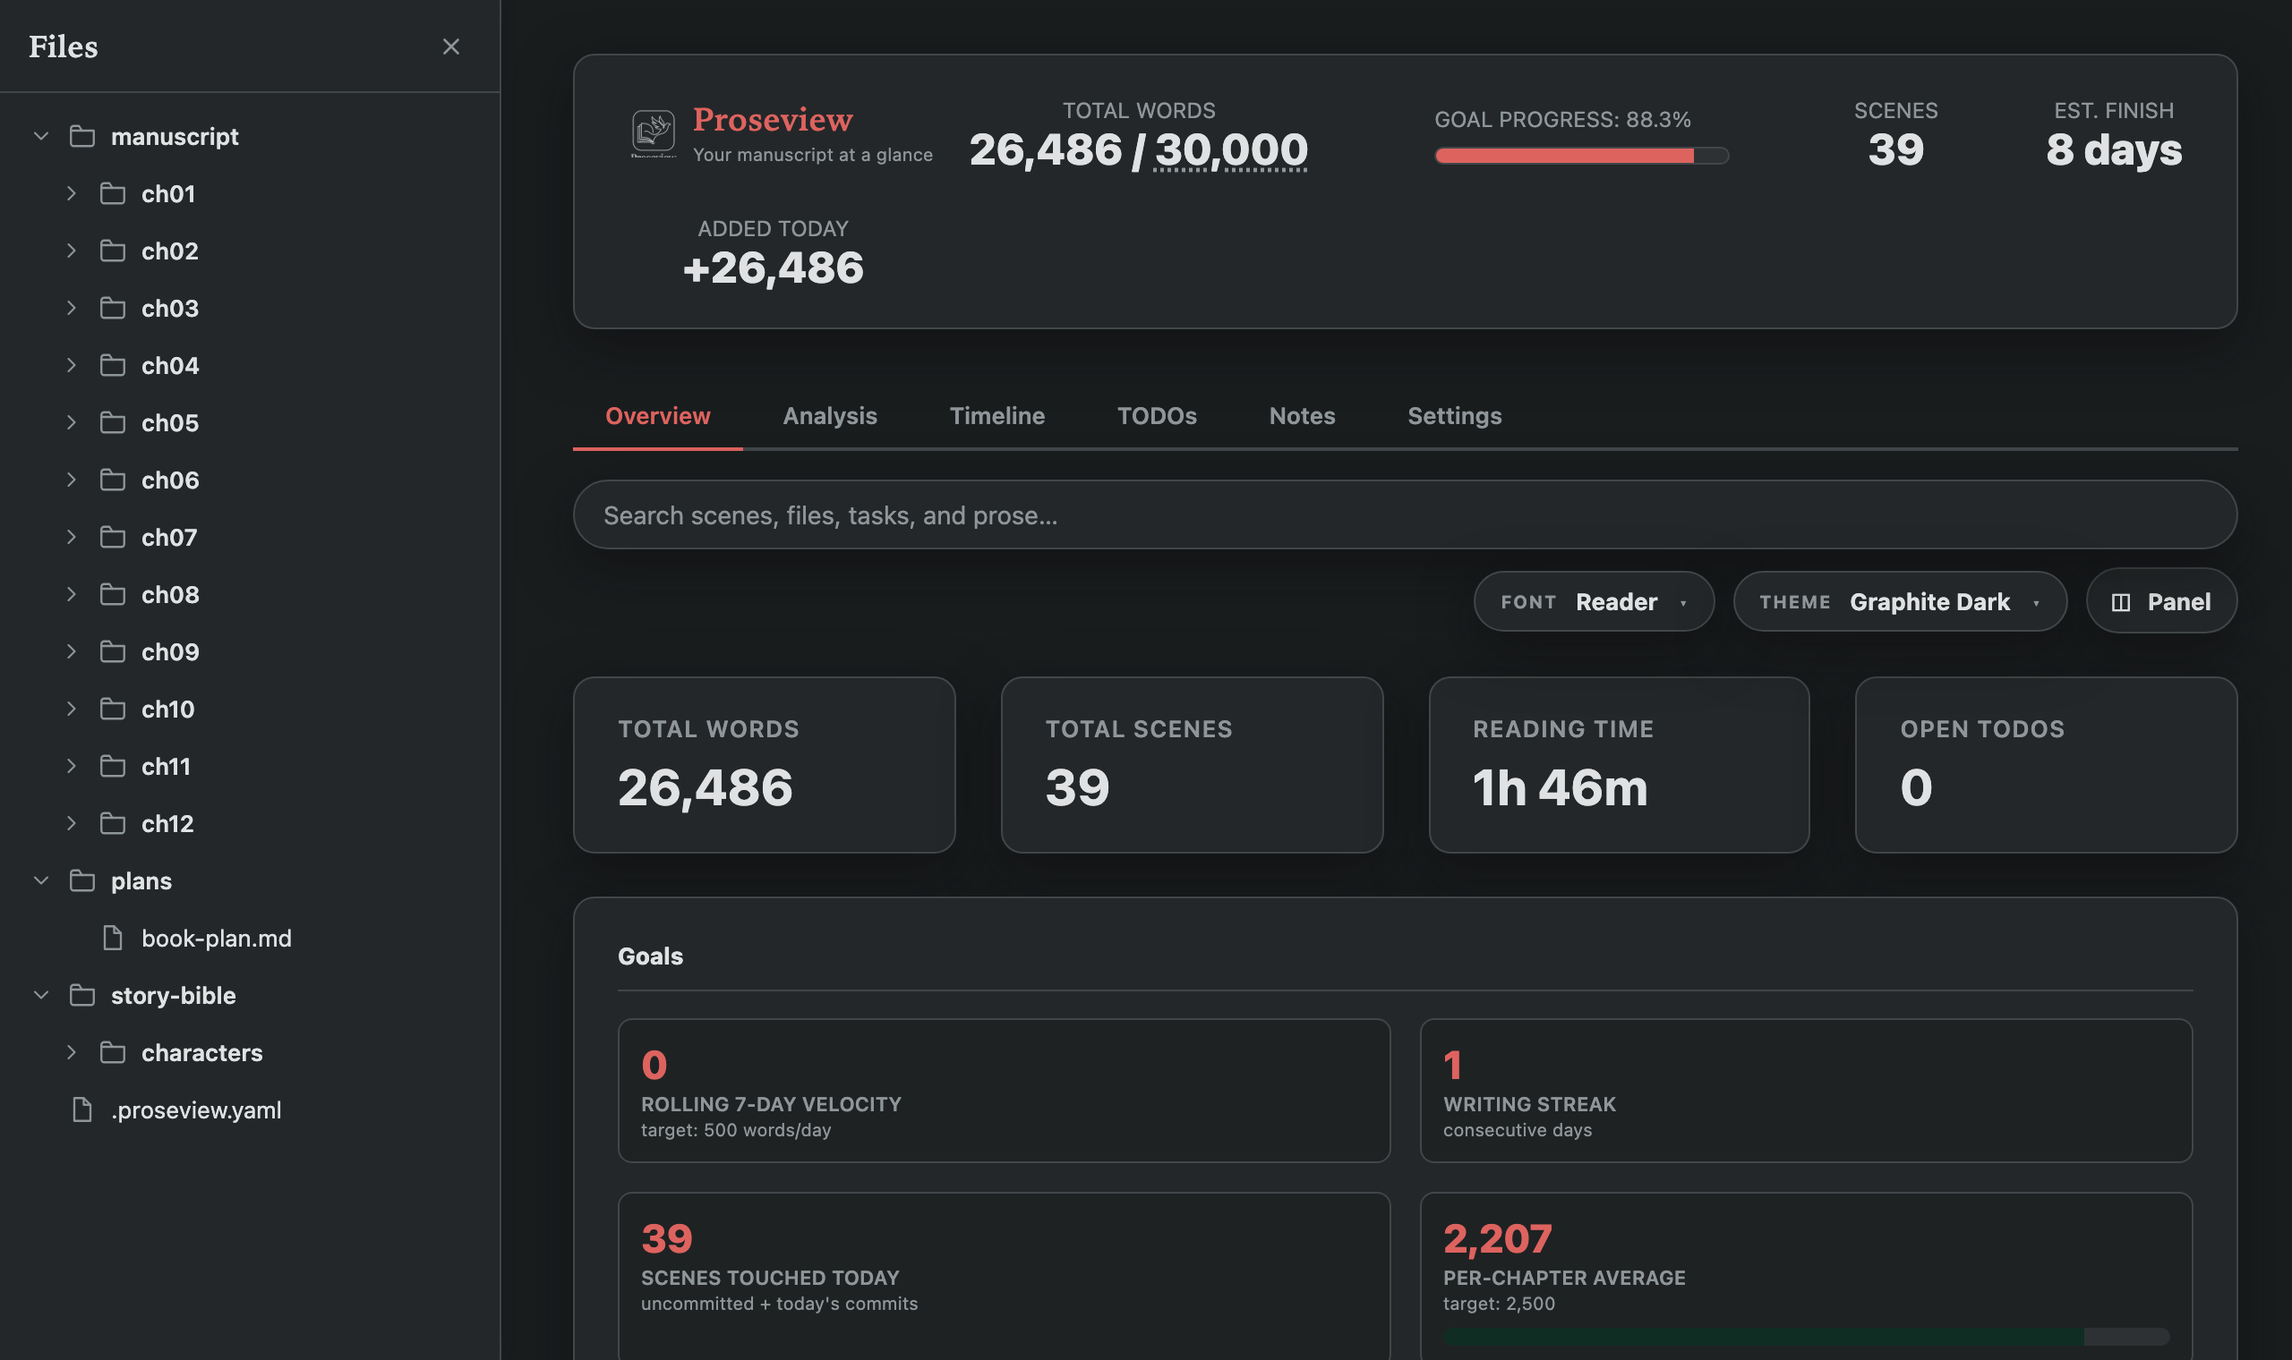
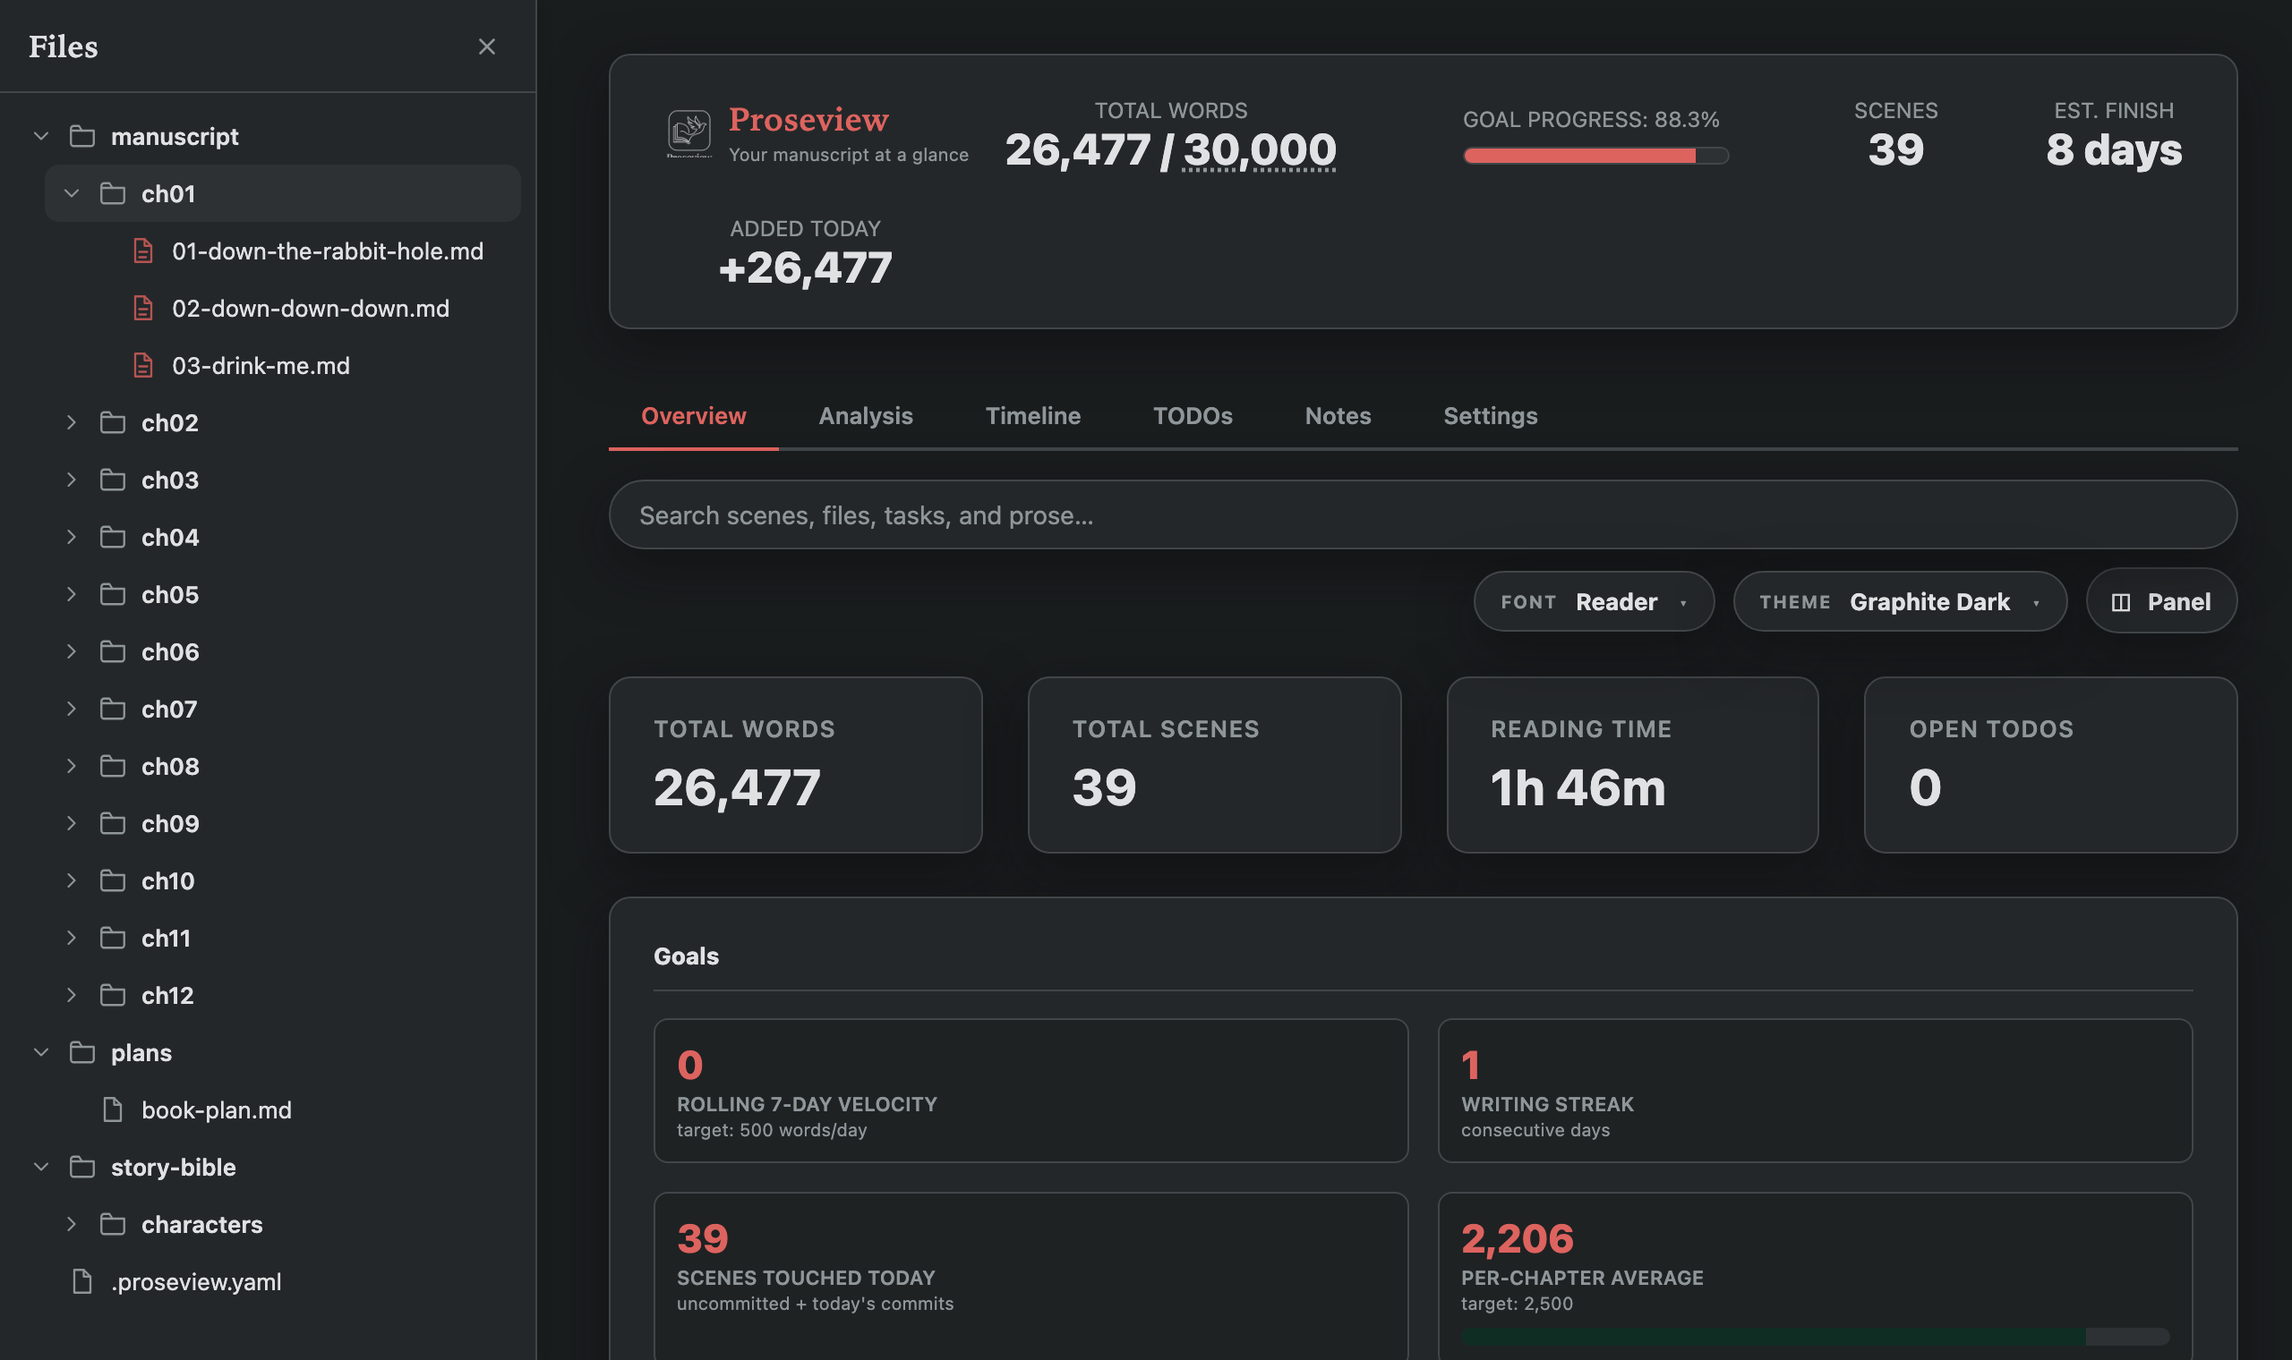
Calm the README down and re-record the images it leads with
The page read as a pitch: benefit-taglines for headings, an imperative ad
cadence, and a roadmap that was mostly a scoreboard of shipped work.

- Headings become labels ("Analytics that mean something" -> "Character
  presence"), and the intro describes what Proseview does instead of
  instructing the reader
- Name the agents behind the AI features: Codex or Claude in the side
  dock, Codex, Claude, or Gemini in a per-file terminal
- Replace the mostly-checkmark roadmap with a short Status section, moving
  proseview init to Configuration and the proposal/continuity work into
  Optional AI so nothing documented was lost
- Drop the duplicate install block, "Zero config works", and the test count
  from the feature list; the count now sits in Development
- shot_dashboard opens ch01 to its scenes, so the lead image shows what a
  chapter folder holds rather than twelve closed folders
- flow_highlights drives the Analysis panel instead of calling
  toggleHighlight(), so the clip shows where the switches are and that a
  row click is what marks the prose

Tests:
- python3 -m pytest

diff --git a/scripts/record_demo_clips.py b/scripts/record_demo_clips.py
@@ -134,15 +134,29 @@ def beat(page, ms: int = 900) -> None:
 
 
 def flow_highlights(page, base, docs):
-    """Editorial passes switching on over a scene, one at a time."""
+    """The Analysis panel, and passes switching on as their rows are clicked."""
     open_scene(page, base, SCENE)
+    beat(page, 900)
+    # Driven through the panel rather than toggleHighlight(): the clip exists
+    # to show where the switches are. Colour that arrives with nothing visibly
+    # touching it teaches a reader nothing about how to turn a pass on.
+    page.click("#sceneModal .discuss-open-btn")
+    page.wait_for_selector("#discussPanel:not([hidden])")
+    beat(page, 700)
+    page.click("#utilityTabAnalysis")
+    page.wait_for_selector("#scenePassList", state="visible")
     beat(page, 1400)
     for pass_name in ("repeats", "filter_verbs", "sensory", "passive_voice"):
-        page.evaluate("(name) => toggleHighlight(name)", pass_name)
-        beat(page, 1300)
-    beat(page, 1200)
+        row = page.locator("#pass-row-" + pass_name)
+        row.scroll_into_view_if_needed()
+        row.hover()
+        beat(page, 350)
+        row.click()
+        beat(page, 1400)
+    beat(page, 800)
     # Off again, so the clip ends on clean prose rather than a wall of colour.
-    page.evaluate("() => toggleAllHighlights && toggleAllHighlights()")
+    # With passes on, the All button reads Clear.
+    page.click("#scenePassAllBtn")
     beat(page, 900)
 
 
@@ -305,6 +319,14 @@ def main(argv: list[str]) -> int:
 def shot_dashboard(page, base, docs):
     page.goto(base, wait_until="load")
     page.wait_for_selector("#tab-overview", state="visible")
+    # One chapter opened to its scenes. This still leads the README, and a
+    # column of closed ch01..ch12 folders never shows what a chapter holds.
+    page.wait_for_selector("#sidebarTree .dir-toggle")
+    # Wide enough for a scene filename to sit on one line. The sidebar is
+    # drag-resizable, so this is a width a reader can have, not a mock-up.
+    page.evaluate("() => document.documentElement.style.setProperty('--sidebar-w', '300px')")
+    page.get_by_role("treeitem", name="ch01", exact=True).click()
+    page.wait_for_selector('#sidebarTree [data-path*="ch01/"]', state="visible")
     page.wait_for_timeout(1800)
 
 

diff --git a/README.md b/README.md
@@ -2,22 +2,19 @@
 
 > A local dashboard for Markdown-first novel repositories. ✍
 
-Point it at a convention-structured manuscript. Get lexical health, pacing,
-character presence, and revision history from the files you already have —
-then read, edit, and annotate them on the same surface.
+Proseview reads a folder of Markdown scenes and reports lexical health,
+pacing, character presence, and revision history. The same pages can be read,
+edited, and annotated in place.
 
 Core analysis stays on your machine: no account, subscription, database, or
-telemetry. AI features are opt-in; when you use one, Proseview sends the active
-document by default, plus any selection or attachments, through your installed
-agent CLI under that agent's login and data handling.
+telemetry. AI features are opt-in and run through agent CLIs you installed and
+logged into yourself — Codex or Claude in the side dock, and Codex, Claude, or
+Gemini in a terminal scoped to one file. When you use one, Proseview sends the
+active document by default, plus any selection or attachments, to that agent
+under its own login and data handling.
 
-```bash
-pipx install proseview
-proseview --root /path/to/your/novel
-```
-
-Already writing in Obsidian, Vim, or another Markdown editor? Keep doing that.
-Proseview reads the same `.md` files, in whatever layout you already use.
+Proseview reads plain `.md` files in whatever layout they already have, so it
+sits alongside Obsidian, Vim, or any other Markdown editor.
 
 [![CI](https://github.com/ourarash/proseview/actions/workflows/ci.yml/badge.svg)](https://github.com/ourarash/proseview/actions/workflows/ci.yml)
 ![status](https://img.shields.io/badge/status-alpha-orange)
@@ -25,40 +22,41 @@ Proseview reads the same `.md` files, in whatever layout you already use.
 ![platform](https://img.shields.io/badge/platform-macOS%20%7C%20Linux%20%7C%20Windows-lightgrey)
 ![license](https://img.shields.io/badge/license-MIT-green)
 
-![The Proseview dashboard: total words against the goal, scene count, reading time, and a Goals panel with writing streak and per-chapter average](https://raw.githubusercontent.com/ourarash/proseview/main/docs/images/dashboard.png)
+![The Proseview dashboard with the file sidebar open on chapter one's scenes: total words against the goal, scene count, reading time, and a Goals panel with writing streak and per-chapter average](https://raw.githubusercontent.com/ourarash/proseview/main/docs/images/dashboard.png)
 
-## 📸 A look around
+## 📸 Screenshots
 
-### Read and revise, with editorial passes on
+### Editorial passes
 
-Nine prose passes highlight repetition, passive voice, filter verbs and more,
-right on the page you are reading. Toggle them one at a time.
+The Analysis panel lists nine prose passes, each with the number of matches in
+this scene. Switching a row on marks the page you are reading: repetition,
+filter verbs, sensory language, passive voice.
 
-![Four editorial passes switching on over a scene, marking repeated words, filter verbs, sensory language, and passive voice](https://raw.githubusercontent.com/ourarash/proseview/main/docs/images/demo-highlights.gif)
+![The Analysis panel open beside a scene, with four highlight passes switched on from their rows and the matching words marked in the prose](https://raw.githubusercontent.com/ourarash/proseview/main/docs/images/demo-highlights.gif)
 
-### Write on the same surface
+### Editing
 
-Hit `Edit` and the page you were reading becomes the page you type into — same
+`Edit` turns the page you were reading into the page you type into — same
 typography, same highlights. `Mod-S` saves to the file, and the stats update.
 
 ![Typing a new closing line into a scene and saving it with Mod-S, with the word count updating](https://raw.githubusercontent.com/ourarash/proseview/main/docs/images/demo-writing.gif)
 
-### Ask two agents, side by side
+### Agent tabs
 
 Codex and Claude each get a tab, each with its own conversation for the
-document you are reading. Ask one, switch to the other, come back — both keep
-working, and neither can see the other's thread.
+document you are reading. Both keep working while the other is in front, and
+neither can see the other's thread.
 
 ![The Codex and Claude tabs answering the same question about a scene in separate conversations, with each answer staying in its own tab](https://raw.githubusercontent.com/ourarash/proseview/main/docs/images/demo-agents.gif)
 
-### Search the whole repository
+### Search
 
 `Mod-K` from anywhere. File paths, scene metadata, TODOs, notes, and prose,
 grouped by kind.
 
 ![The search palette open over a scene, showing file, scene, and prose matches grouped by kind](https://raw.githubusercontent.com/ourarash/proseview/main/docs/images/demo-search.gif)
 
-### See the shape of the book
+### Timeline
 
 Chapter proportion and words per scene, your storylines as lanes, and reading
 order against the order events actually happen — so a scene read far from where
@@ -66,7 +64,7 @@ it happens is visible instead of inferred. Hover any scene for its card.
 
 ![The Timeline tab showing chapter proportion, words per scene, three storyline lanes, and reading order against story order, with a scene card on hover](https://raw.githubusercontent.com/ourarash/proseview/main/docs/images/demo-timeline.gif)
 
-### Analytics that mean something
+### Character presence
 
 ![The Analysis tab's character presence timeline, tracking how often each character is mentioned across all twelve chapters](https://raw.githubusercontent.com/ourarash/proseview/main/docs/images/analytics.png)
 
@@ -74,7 +72,7 @@ it happens is visible instead of inferred. Hover any scene for its card.
 > (public domain), split into 39 scenes across 12 chapters with story fields
 > filled in. See [fixtures/demo-book](fixtures/demo-book/README.md).
 
-## ✨ What you get
+## ✨ Features
 
 - 📊 **Dashboard.** Word count, chapter pacing, lexical health, sentence
   rhythm, character presence, setting stickiness, and a sortable scene
@@ -82,12 +80,13 @@ it happens is visible instead of inferred. Hover any scene for its card.
 - 📖 **Reading view and WYSIWYG editor.** The same typographic page, with
   `Edit` toggled on. `Mod-S` saves; a conflict guard checks the file mtime
   so a change made in your own editor is never silently overwritten.
-- 🎨 **Editorial highlights.** Nine prose passes over any scene:
-  repetition, passive voice, filter verbs, crutch words, hyperbole,
-  lyrical reach, sensory density, comedy beats, first-person rate.
+- 🎨 **Editorial highlights.** Nine prose passes over any scene, switched
+  on from the Analysis panel with a match count each: repetition, passive
+  voice, filter verbs, crutch words, hyperbole, lyrical reach, sensory
+  density, comedy beats, first-person rate.
 - 🗒 **Inline TODOs and Notes.** Select a passage, drop a `TODO` or a
-  tagged `NOTE`, and it lands in the file as a Markdown comment. Survives
-  in git, greppable, visible to any tool.
+  tagged `NOTE`, and it lands in the file as a Markdown comment. They stay
+  in the file, so they survive in git and turn up in grep.
 - 🕰 **Timeline.** The shape of the book, storylines as lanes, and reading
   order against the order events happen.
 - 🤖 **Two agents, side by side.** Codex and Claude each get a dock tab and
@@ -101,22 +100,25 @@ it happens is visible instead of inferred. Hover any scene for its card.
   the dashboard counts them. [Export options →](docs/export.md)
 - 🔁 **Live reload, deep links, themes.** Save in your editor and the page
   follows. Every scene has a URL. Six themes, seven fonts.
-- 🧪 **Tested.** 642 unit tests and a browser tier that drives the real UI.
+- 🧪 **Tested.** A unit suite plus a browser tier that drives the real UI.
   One behaviour suite runs against both agents, so a feature cannot
   silently work on one tab and not the other.
 
-### 🤖 And AI, if you want it
+### 🤖 Optional AI
 
 Entirely optional, and it never runs on its own. Proseview has no model of its
 own and no API key of yours — it drives the agent CLIs already installed on
-your machine, under your login.
+your machine, under your login: Codex and Claude for the two Discuss tabs, and
+Codex, Claude, or Gemini for a terminal conversation about a single file.
 
 Agent sessions are read-only. Anything beyond reading — a shell command, a file
 write — stops at an approval you have to grant, and raw model reasoning is
 never forwarded to the browser.
 
-If you want none of this, ignore it. Everything above works without an agent
-installed. [Details →](docs/ai.md)
+Continuity and canon questions come back with citations, and suggested edits
+arrive as proposals you accept or reject before anything is written.
+
+Everything else works without an agent installed. [Details →](docs/ai.md)
 
 ## 🚀 Quick start
 
@@ -132,7 +134,7 @@ A browser tab opens at `http://localhost:7842`. Press Ctrl-C to stop.
 
 Point it at any folder of Markdown. If there is no `manuscript/` directory the
 whole folder is the manuscript, so an Obsidian vault or a flat pile of chapter
-files works with no configuration and no reorganising.
+files works with no configuration.
 
 ```text
 my-novel/
@@ -150,9 +152,10 @@ is not. [Layout and the full frontmatter contract →](docs/manuscript.md)
 
 ## ⚙ Configuration
 
-Zero config works. Drop a `.proseview.yaml` at the repo root to change where
-things live, set a word-count goal, pick which agent tab opens first, or point
-the Timeline at your own frontmatter keys.
+Proseview runs without a config file. A `.proseview.yaml` at the repo root can
+change where things live, set a word-count goal, pick which agent tab opens
+first, or point the Timeline at your own frontmatter keys. `proseview init`
+writes a starter file.
 
 ```yaml
 manuscript_path: manuscript/
@@ -171,30 +174,12 @@ discuss:
 - [The analytics](docs/analytics.md)
 - [EPUB export](docs/export.md)
 
-## 🛣 Roadmap
+## 🛣 Status
 
-This is alpha. Things that are working and things that are coming:
+Proseview is alpha. Everything described above works today. Still unfinished:
 
-- ✅ Live server, live reload, ProseMirror editor, highlights, TODOs,
-  notes, deep links, in-browser terminal, agent menu, and document-aware
-  Discuss conversations with Codex and Claude.
-- ✅ Vendored front-end dependencies. chart.js, marked, xterm and
-  friends ship with the package and load from `/vendor/`. ProseMirror
-  modules are pinned to specific versions on esm.sh.
-- ✅ Modularized front-end. The JS lives in seventeen topical files under
-  `templates/assets/js/`, concatenated at render time.
-- ✅ `proseview init` writes a starter `.proseview.yaml` so a fresh
-  novel repo gets a working configuration with one command.
-- ✅ Persisted UI prefs. Your highlight-pass toggles and theme choices
-  survive scene navigation and reloads.
-- ✅ AI proposal review. Suggested selection edits show the original and
-  proposed text with explicit accept, reject, undo, and save steps.
-- ✅ Discuss on either agent. Codex and Claude each have a dock tab and
-  their own conversation per document, running side by side.
 - 🚧 Skills on the Claude tab. Codex discovers them today; Claude's picker
   is still empty.
-- ✅ Evidence-first continuity and canon refactoring in Discuss, with cited
-  impact reports, intentional exceptions, proposal handoff, and verification.
 - 🚧 Frontmatter editor (status, where, todos) inside the scene viewer
   so you don't need to drop into your text editor for routine fields.
 
@@ -207,7 +192,7 @@ pip install -e ".[dev]"
 pytest
 ```
 
-That runs the unit suite plus an HTTP end-to-end tier that boots a real
+That runs 642 unit tests plus an HTTP end-to-end tier that boots a real
 `proseview` subprocess and drives every endpoint — saves and the conflict
 guard, TODOs and notes, the AI proposal bridge through the actual CLI, live
 reload over SSE, and PTY terminals — asserting on bytes written to disk.
